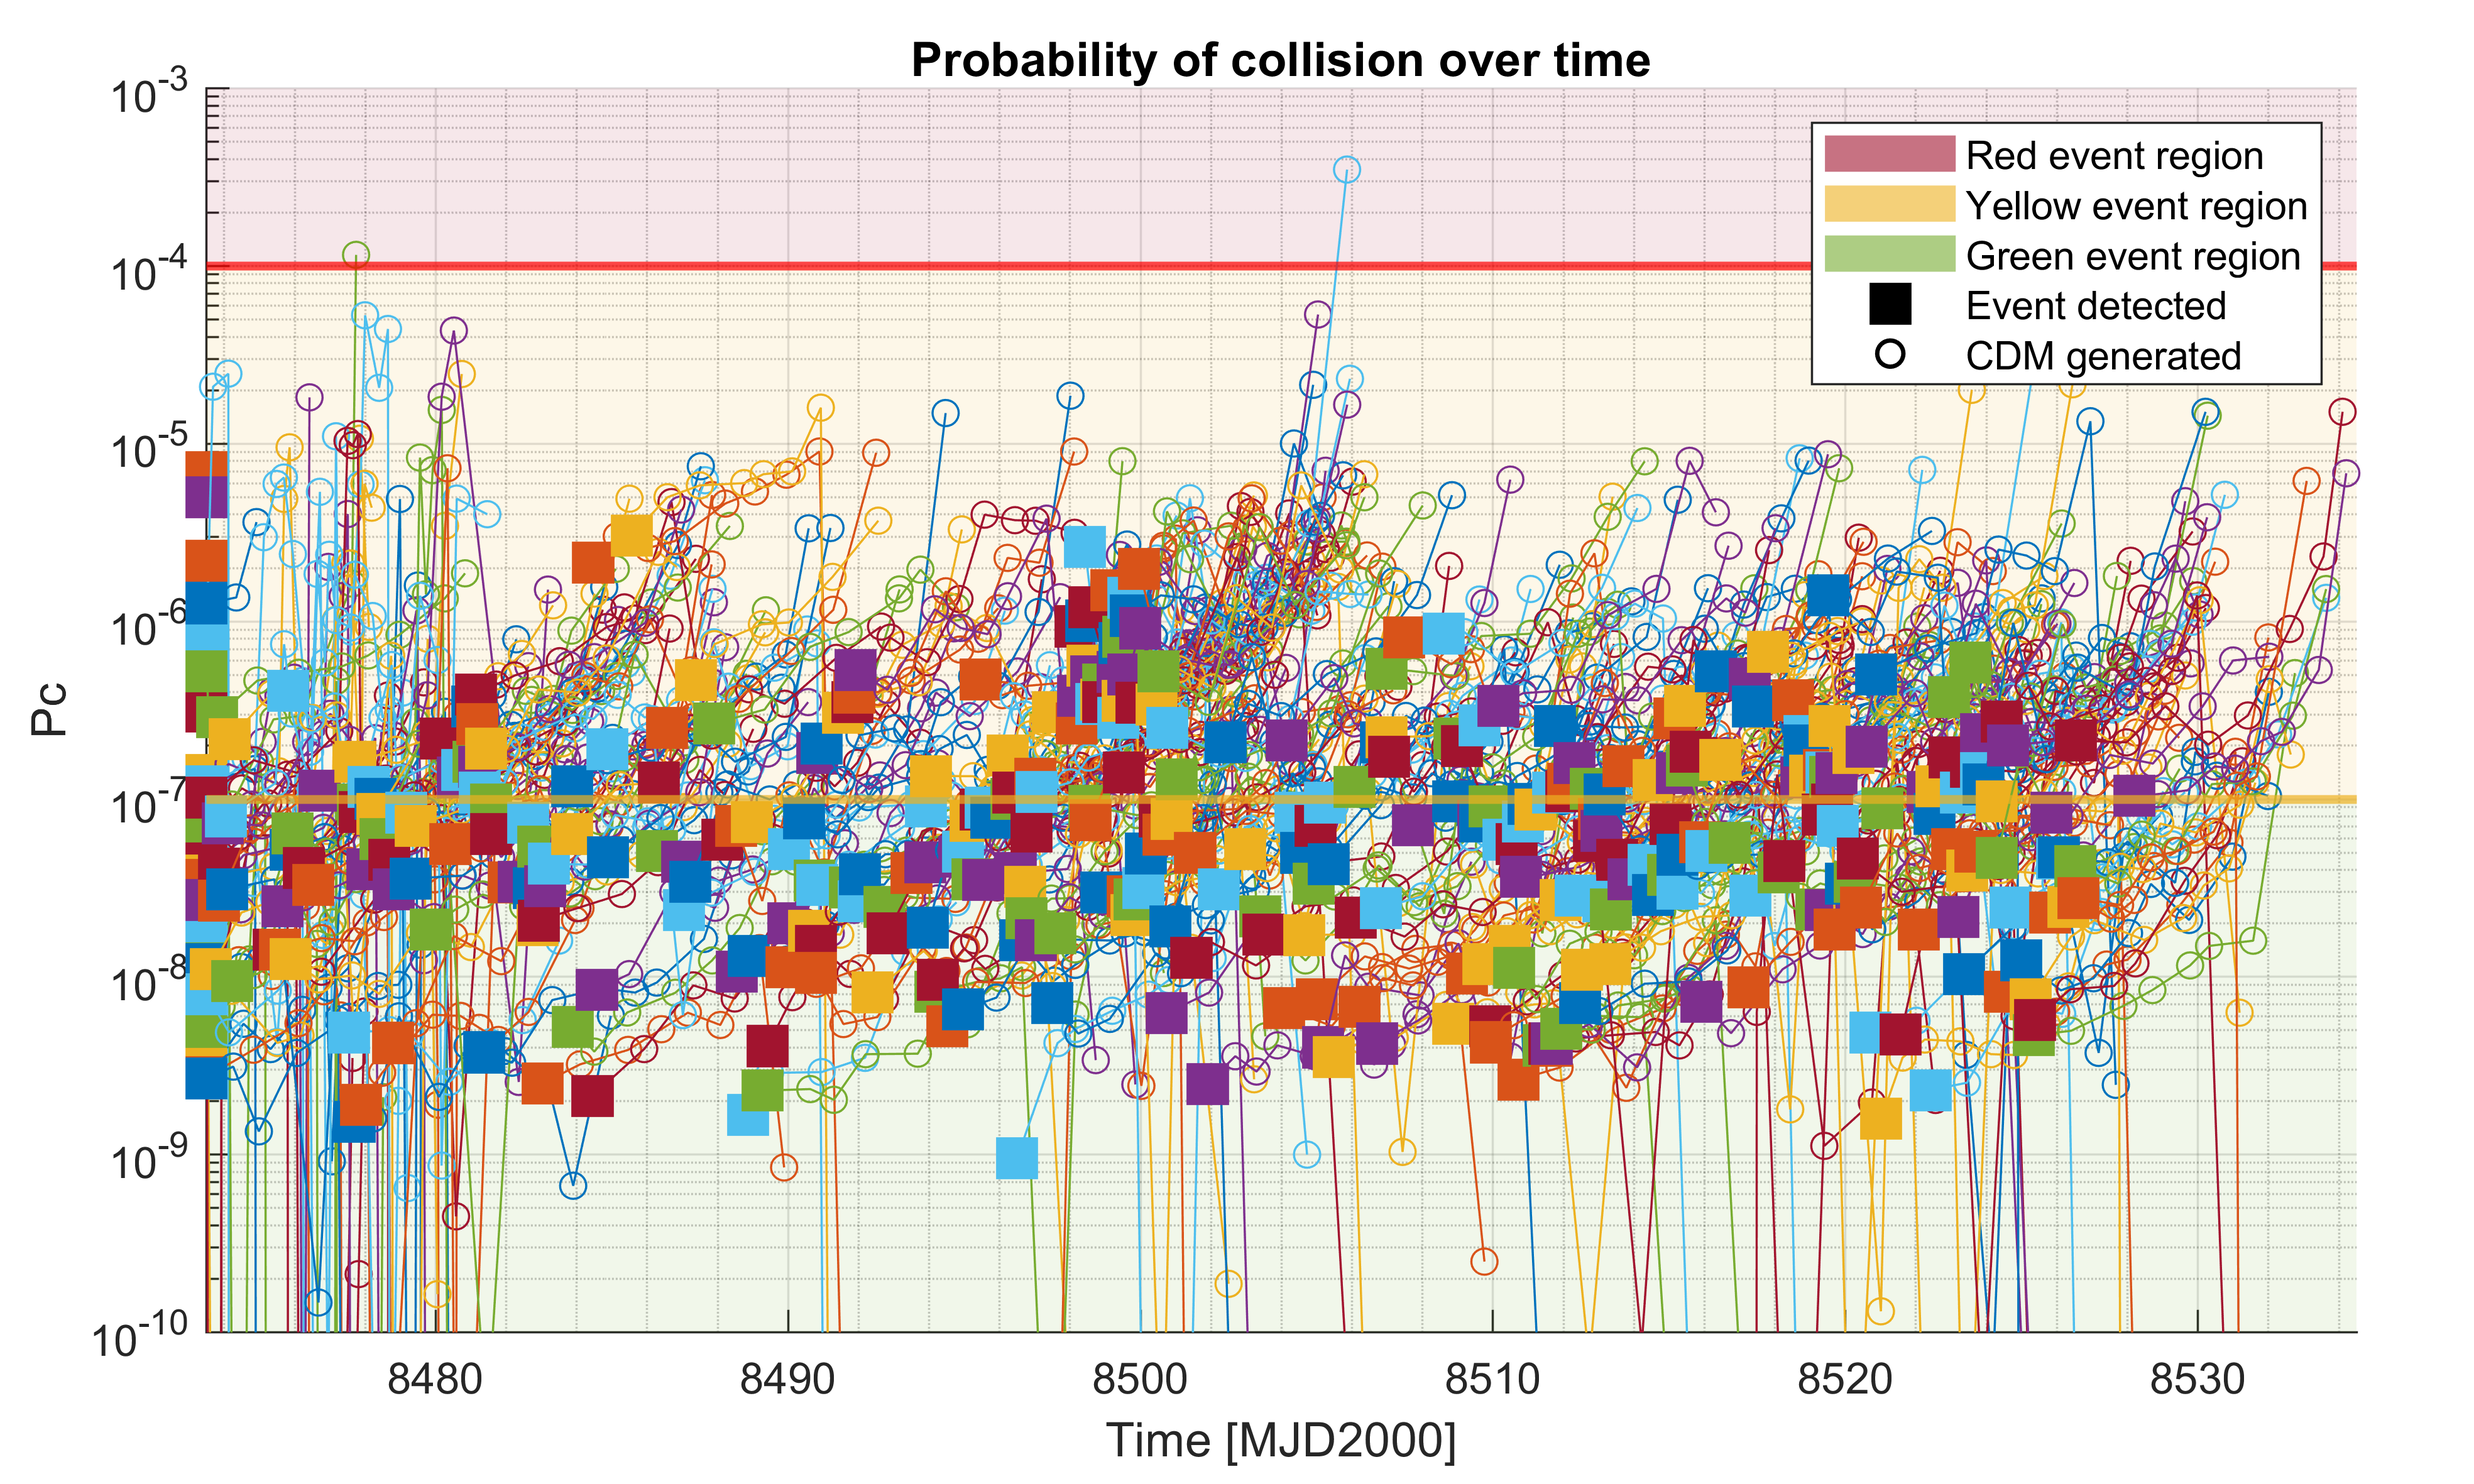
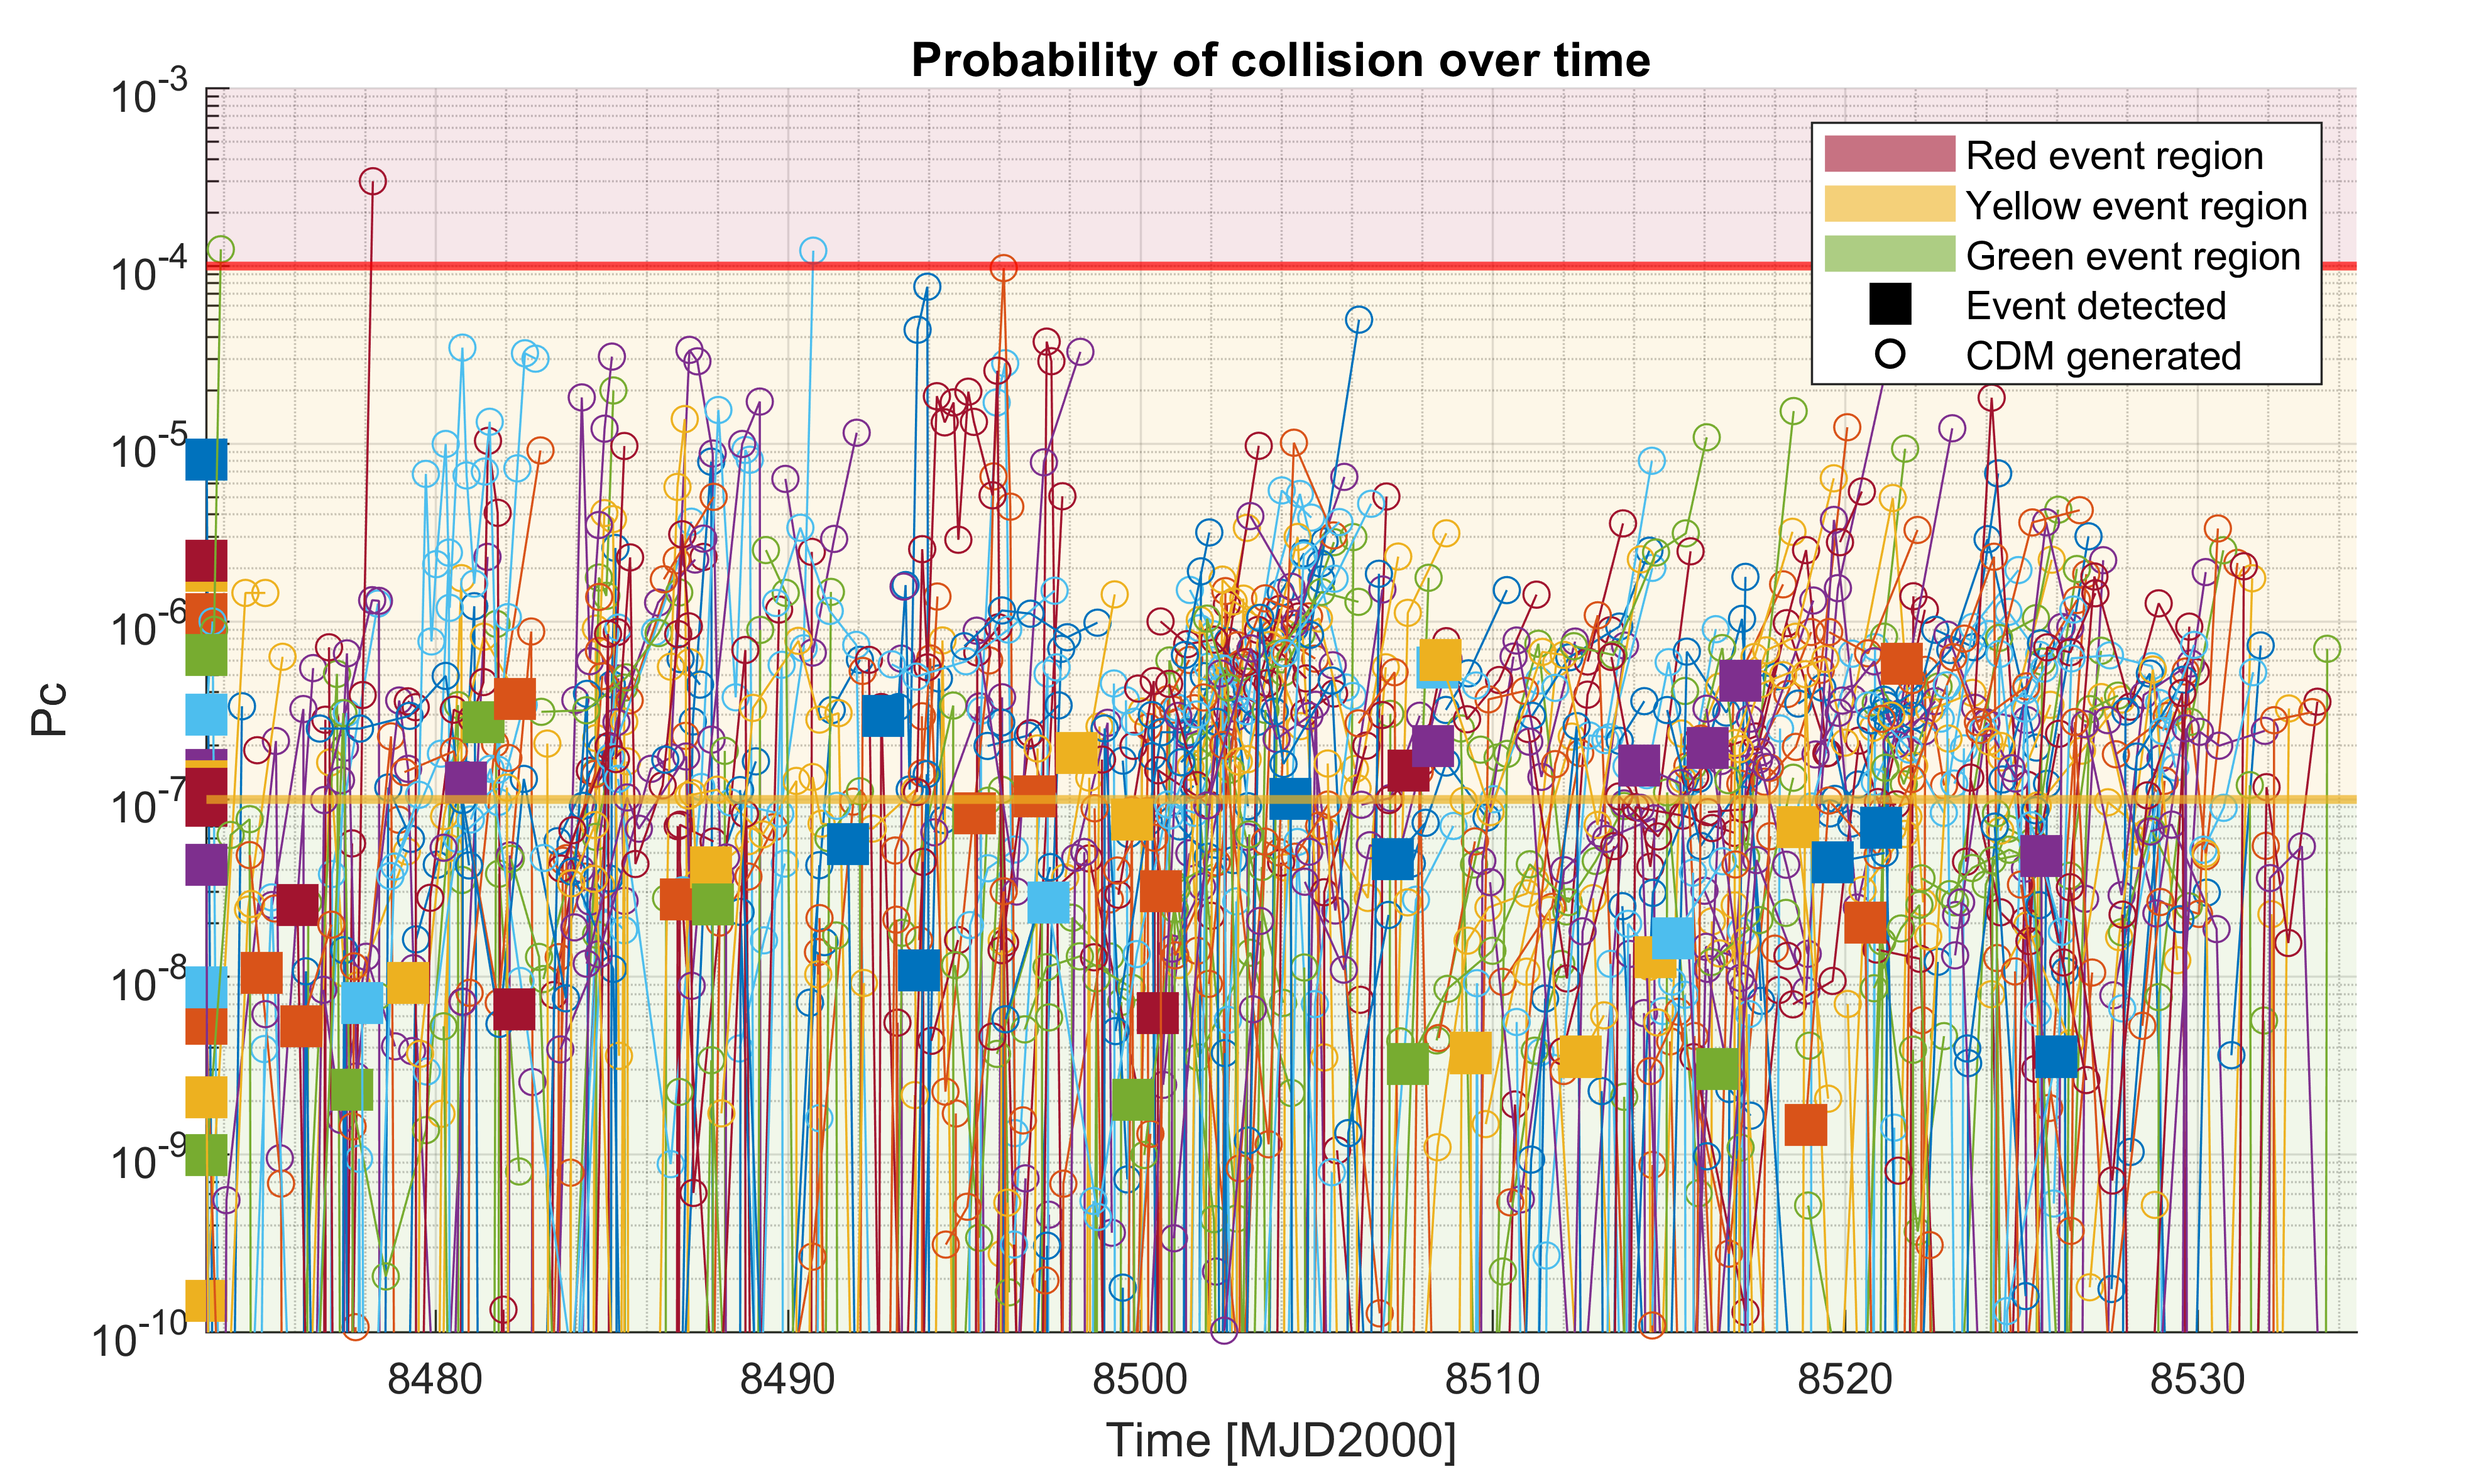
The decision model simplified and the velocity state estimation added to the technology model

diff --git a/Code/Functions/SDS18.m b/Code/Functions/SDS18.m
@@ -36,6 +36,8 @@
 %       * Modifying the stochastic functions to the technology model
 %   20/1/2023 - Sina Es haghi
 %       * Modifying so that the object's estimated position is a sample in the middle of it's covariance matrix
+%   08/3/2023 - Sina Es haghi
+%       * Modifying so that the object's estimated velocity is a sample in the middle of it's covariance matrix
 %
 function [state_car,P0,state_car_tca]=SDS18 (actual_state_at_t,actual_state_at_tca,t,tca)
 
@@ -47,26 +49,23 @@ P0 = config.government_SSA_cov;
 std_r = sqrt(P0(1,1));
 std_s = sqrt(P0(2,2));
 std_w = sqrt(P0(3,3));
-
+std_vr = sqrt (P0(4,4));
+std_vs = sqrt (P0(5,5));
+std_vw = sqrt (P0(6,6));
 %% Converting the states to RSW, sampling the OD with the standard deviations, and converting back to ECI
 pos=actual_state_at_t(1:3);
 vel=actual_state_at_t(4:6);
 [T_rsw2eci,T_eci2rsw] = ECI2RSW(pos,vel);
 pos_rsw = T_eci2rsw * pos;
+vel_rsw = T_eci2rsw * vel;
 estimated_pos_rsw = pos_rsw + normrnd(0,std_r,[1 1])*[1;0;0] + normrnd(0,std_s,[1 1])*[0;1;0] + normrnd(0,std_w,[1 1])*[0;0;1];
+estimated_vel_rsw = vel_rsw + normrnd(0,std_vr,[1 1])*[1;0;0] + normrnd(0,std_vs,[1 1])*[0;1;0] + normrnd(0,std_vw,[1 1])*[0;0;1];
 pos = T_rsw2eci*estimated_pos_rsw; % Estimated position of the satellite back in the ECI frame
+vel = T_rsw2eci*estimated_vel_rsw;
 
 
-state_car=[pos;actual_state_at_t(4:6)];
+state_car=[pos;vel];
 if nargout==3
     state_car_tca= TwoBP_J2_analytic_car_state (state_car,tca-t);
 end
-
-%% Initial Covariance matrix in RSW frame
-% e_r = 0.01; % Error in R direction position [km]
-% e_s = 0.01; % Error in S direction position [km]
-% e_w = 0.01; % Error in W direction position [km]
-% e_vr= 0.001; % Error in R direction velocity [km/s]
-% e_vs= 0.001; % Error in R direction velocity [km/s]
-% e_vw= 0.001; % Error in R direction velocity [km/s]
 

diff --git a/Code/Functions/Decision_model.m b/Code/Functions/Decision_model.m
@@ -118,8 +118,8 @@ for i=length(cdm_list):-1:1 % loops through all the generated CDMs
                 (Pc>=config.red_event_Pc && TimeToConjunction>=config.TimeToConj_low && TimeToConjunction<=config.TimeToConj_high && value_of_collision<=config.value_low) || ...
                 (Pc>=config.red_event_Pc && TimeToConjunction>=config.TimeToConj_high && budget>=total_budget*config.budget_tres) || ...
                 (Pc<config.red_event_Pc && Pc>=config.yellow_event_Pc && TimeToConjunction>=config.TimeToConj_low && TimeToConjunction<=config.TimeToConj_high && value_of_collision>=config.value_high && budget>=total_budget*config.budget_tres) || ...
-                (Pc<config.red_event_Pc && Pc>=config.yellow_event_Pc && TimeToConjunction<=config.TimeToConj_low && value_of_collision>=config.value_low && budget>=total_budget*config.budget_tres) || ...
-                (Pc<=config.yellow_event_Pc && TimeToConjunction<=config.TimeToConj_low && value_of_collision>=config.value_high && budget>=total_budget*config.budget_tres)
+                (Pc<config.red_event_Pc && Pc>=config.yellow_event_Pc && TimeToConjunction<=config.TimeToConj_low && value_of_collision>=config.value_low && budget>=total_budget*config.budget_tres) %|| ...
+                %(Pc<=config.yellow_event_Pc && TimeToConjunction<=config.TimeToConj_low && value_of_collision>=config.value_high && budget>=total_budget*config.budget_tres)
             action_det = "Tasking. Commercial SSA provider data requested.";
             event_detection(10,event_detection_index)=0;
             event_detection(8,event_detection_index)=1;

diff --git a/Code/Functions/LEOLABS.m b/Code/Functions/LEOLABS.m
@@ -36,6 +36,8 @@
 %       * Modifying the stochastic functions to the technology model
 %   20/1/2023 - Sina Es haghi
 %       * Modifying so that the object's estimated position is a sample in the middle of it's covariance matrix
+%   08/3/2023 - Sina Es haghi
+%       * Modifying so that the object's estimated velocity is a sample in the middle of it's covariance matrix
 %
 function [state_car,P0,state_car_tca]=LEOLABS (actual_state_at_t,actual_state_at_tca,t,tca)
 global config;
@@ -46,17 +48,22 @@ P0 = config.commercial_SSA_cov;
 std_r = sqrt(P0(1,1));
 std_s = sqrt(P0(2,2));
 std_w = sqrt(P0(3,3));
-
+std_vr = sqrt (P0(4,4));
+std_vs = sqrt (P0(5,5));
+std_vw = sqrt (P0(6,6));
 %% Converting the states to RSW, sampling the OD with the standard deviations, and converting back to ECI
 pos=actual_state_at_t(1:3);
 vel=actual_state_at_t(4:6);
 [T_rsw2eci,T_eci2rsw] = ECI2RSW(pos,vel);
 pos_rsw = T_eci2rsw * pos;
+vel_rsw = T_eci2rsw * vel;
 estimated_pos_rsw = pos_rsw + normrnd(0,std_r,[1 1])*[1;0;0] + normrnd(0,std_s,[1 1])*[0;1;0] + normrnd(0,std_w,[1 1])*[0;0;1];
+estimated_vel_rsw = vel_rsw + normrnd(0,std_vr,[1 1])*[1;0;0] + normrnd(0,std_vs,[1 1])*[0;1;0] + normrnd(0,std_vw,[1 1])*[0;0;1];
 pos = T_rsw2eci*estimated_pos_rsw; % Estimated position of the satellite back in the ECI frame
+vel = T_rsw2eci*estimated_vel_rsw;
 
 
-state_car=[pos;actual_state_at_t(4:6)];
+state_car=[pos;vel];
 if nargout==3
     state_car_tca= TwoBP_J2_analytic_car_state (state_car,tca-t);
 end

diff --git a/Code/Functions/SpaceEVDT.m b/Code/Functions/SpaceEVDT.m
@@ -91,7 +91,9 @@ disp('Event list converted to conjunction event matrix');
 %% Saving 
 %save("Data\Intermediate_6March.mat");
 %% Loading
-%load("Data\Intermediate_6March.mat");
+load("Data\Intermediate_6March.mat");
+global total_budget;
+total_budget=305;
 GetConfig;
 %% Replicating NASA CARA
 [cdm_list,event_detection,total_cost,decision_list]=CARA_process (event_matrix,epoch,end_date,space_cat,space_cat_ids,eos,accelerator,cdm_list,decision_list,event_detection,total_cost);

diff --git a/Code/Functions/CDM.m b/Code/Functions/CDM.m
@@ -7,7 +7,7 @@ classdef CDM
         miss_dist           % Miss distance [km]
         Pc                  % Probability of collision
         CC                  % Collision consequence number of pieces
-        catas_flag          % Catastrophy flag [bool]
+        CC_value            % Value of the collision consequence
         HBR                 % Hard body radius [km]
         read_status         % Read status by the decision model [bool]
         

diff --git a/Code/Functions/CDM_generator.m b/Code/Functions/CDM_generator.m
@@ -148,9 +148,9 @@ v2_f=stat2_f(4:6);
 %% quick check
 miss_dist=norm(r1_f-r2_f);
 error_of_missdist=abs(miss_dist-event_column(5));
-if error_of_missdist>1e-3 
-    error("error in propagation in cdm generation");
-end
+%if error_of_missdist/miss_dist>1e-3 
+%    error("error in propagation in cdm generation");
+%end
 
 %% Conversion to ECI at TCA
 % Object 1

diff --git a/Code/Functions/conjunction_tuning.m b/Code/Functions/conjunction_tuning.m
@@ -52,7 +52,7 @@ while timestep >= config.superfine_prop_timestep/86400
 
     [minimum_dist,minimum_index] = min(distances);
 
-    if minimum_index == 2 || norm(minimum_dist-d)<0.00001
+    if minimum_index == 2 || norm(minimum_dist-d)/d<0.01
         timestep = timestep * 0.1 ;
     else
         if minimum_index == 3
